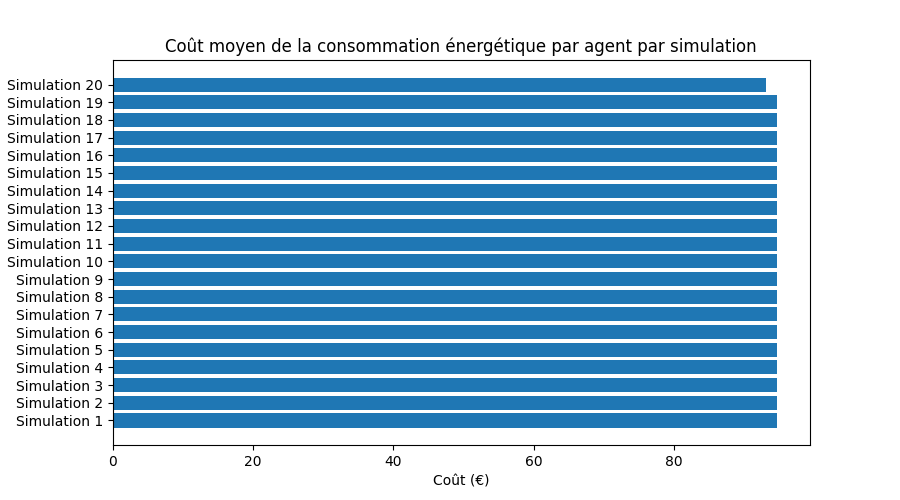
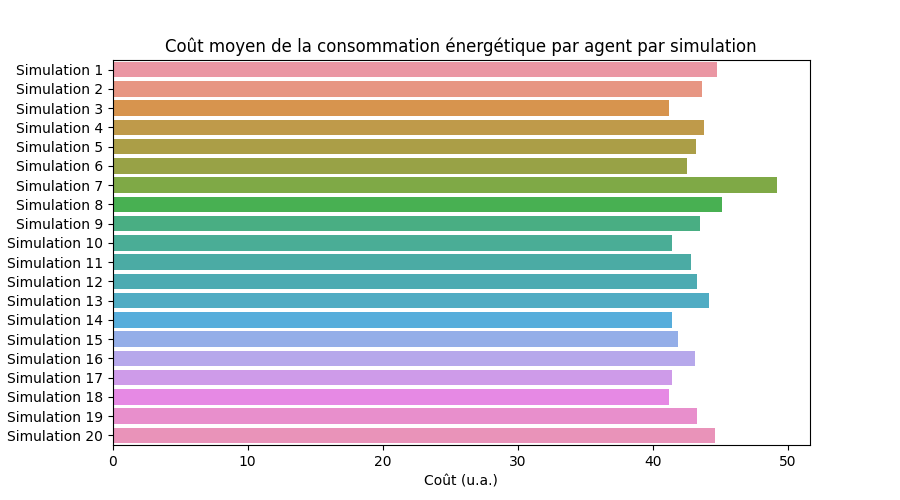
graphs with correct data

diff --git a/generate_graphs.py b/generate_graphs.py
@@ -15,10 +15,10 @@ cpt = 0
 for file in files:
     nom_simulation = "simulation_" + str(cpt+1)
     with open(file, 'r') as f:
-        data_kilian = json.loads(f.read())
+        #data_kilian = json.loads(f.read())
         data.append({"simulation": json.loads(f.read())})
-        for index, agent in enumerate([a for a in data_kilian if 'Agent' in a]):
-            df.loc[cpt * 15 + index] = [data_kilian[agent]["time_by_distance"], data_kilian[agent]["time_wo_stop"], nom_simulation]
+        #for index, agent in enumerate([a for a in data_kilian if 'Agent' in a]):
+         #   df.loc[cpt * 15 + index] = [data_kilian[agent]["time_by_distance"], data_kilian[agent]["time_wo_stop"], nom_simulation]
     cpt += 1
         
 def mean(data:list):
@@ -36,8 +36,8 @@ print(df.to_string())
 # # x = [d['mean_time_by_distance'] for d in refined_data]
 # # y = [d['mean_time_wo_stop'] for d in refined_data]
 
-sns.scatterplot(data=df, x="time_by_distance", y="time_wo_stop", hue="simulation_id")
-plt.show()
+# sns.scatterplot(data=df, x="time_by_distance", y="time_wo_stop", hue="simulation_id")
+# plt.show()
 
 plt.rcParams["figure.figsize"] = (9,5)
 
@@ -75,13 +75,14 @@ plt.rcParams["figure.figsize"] = (9,5)
 # print(x)
 # print(y)
 
-# plt.barh(x, y)
-# plt.xlabel("emission de CO2")
+# #plt.barh(x, y)
+# sns.barplot(x=y, y=x, orient='h')
+# plt.xlabel("emission de CO2 (u.a.)")
 # plt.title("Emission totale par simulation")
 # plt.show()
 
 
-# Consumption
+# # Consumption
 
 # x = []
 # y = []
@@ -98,13 +99,14 @@ plt.rcParams["figure.figsize"] = (9,5)
 # print(x)
 # print(y)
 
-# plt.barh(x, y)
-# plt.xlabel("Coût (€)")
+# #plt.barh(x, y)
+# sns.barplot(x=y, y=x, orient='h')
+# plt.xlabel("Coût (u.a.)")
 # plt.title("Coût moyen de la consommation énergétique par agent par simulation")
 # plt.show()
 
 
-# Travel time
+# # Travel time
 
 
 # x = []
@@ -116,7 +118,28 @@ plt.rcParams["figure.figsize"] = (9,5)
 # plt.xlabel("Temps (s)")
 # plt.ylabel("Distance (m)")
 # plt.title("Distance en fonction du temps par agent")
-# plt.scatter(x, y)
+# sns.scatterplot(x=x, y=y)
+# plt.show()
+
+
+# x = []
+# y = []
+# for simulation in data:
+#     x += ["Simulation %i" % (len(x)+1)]
+#     total_speed = 0
+#     nb_agents = 0
+#     for info in simulation['simulation']:
+#         if 'Agent' in info:
+#             nb_agents += 1
+#             total_speed += simulation['simulation'][info]["total_distance"] / simulation['simulation'][info]["total_time"]
+#     y.append(total_speed/nb_agents)
+
+# print(x)
+# print(y)
+
+# sns.barplot(x=y, y=x, orient='h')
+# plt.xlabel("Vitesse (m/s)")
+# plt.title("Vitesse moyenne des agents par simulation")
 # plt.show()
 
 
@@ -124,18 +147,18 @@ x = []
 y = []
 for simulation in data:
     x += ["Simulation %i" % (len(x)+1)]
-    total_speed = 0
-    nb_agents = 0
+    min_speed = 999
     for info in simulation['simulation']:
         if 'Agent' in info:
-            nb_agents += 1
-            total_speed += simulation['simulation'][info]["total_distance"] / simulation['simulation'][info]["total_time"]
-    y.append(total_speed/nb_agents)
+            speed = simulation['simulation'][info]["total_distance"] / simulation['simulation'][info]["total_time"]
+            if min_speed > speed:
+                min_speed = speed
+    y.append(min_speed)
 
 print(x)
 print(y)
 
-plt.barh(x, y)
+sns.barplot(x=y, y=x, orient='h')
 plt.xlabel("Vitesse (m/s)")
-plt.title("Vitesse moyenne des agents par simulation")
+plt.title("Vitesse minimale des agents par simulation")
 plt.show()
